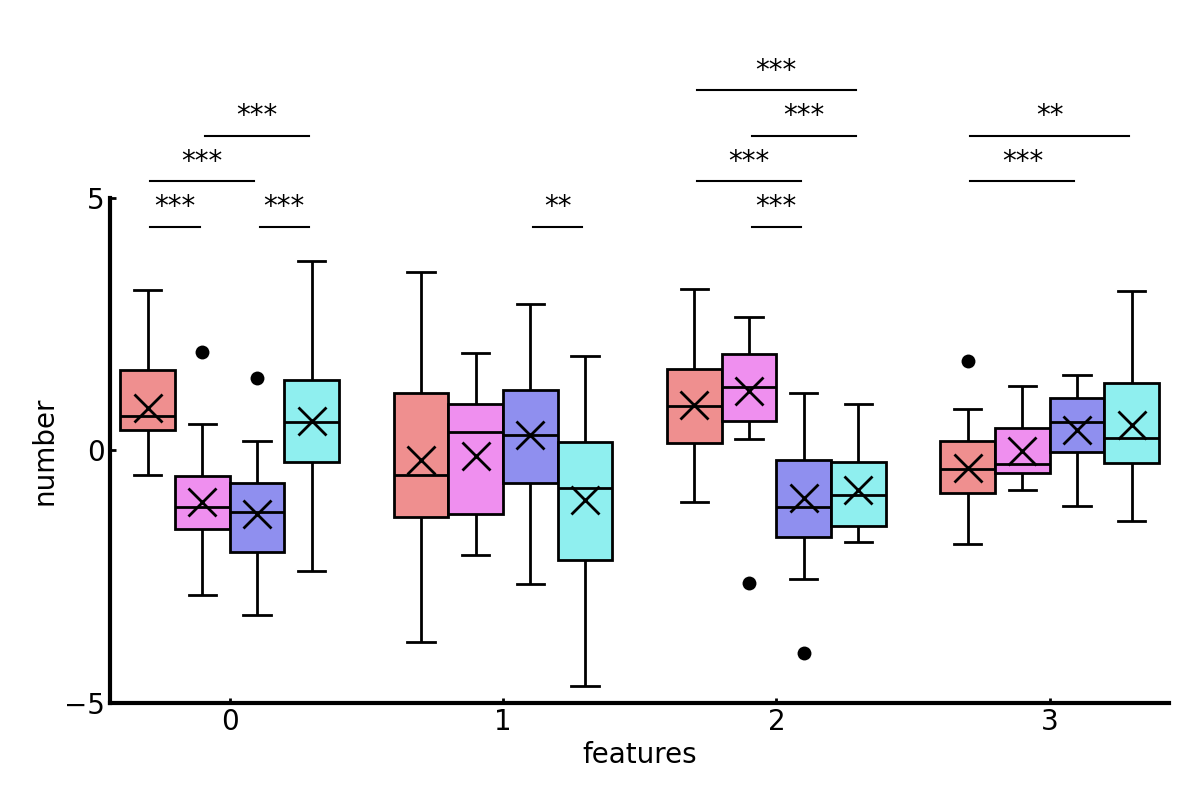
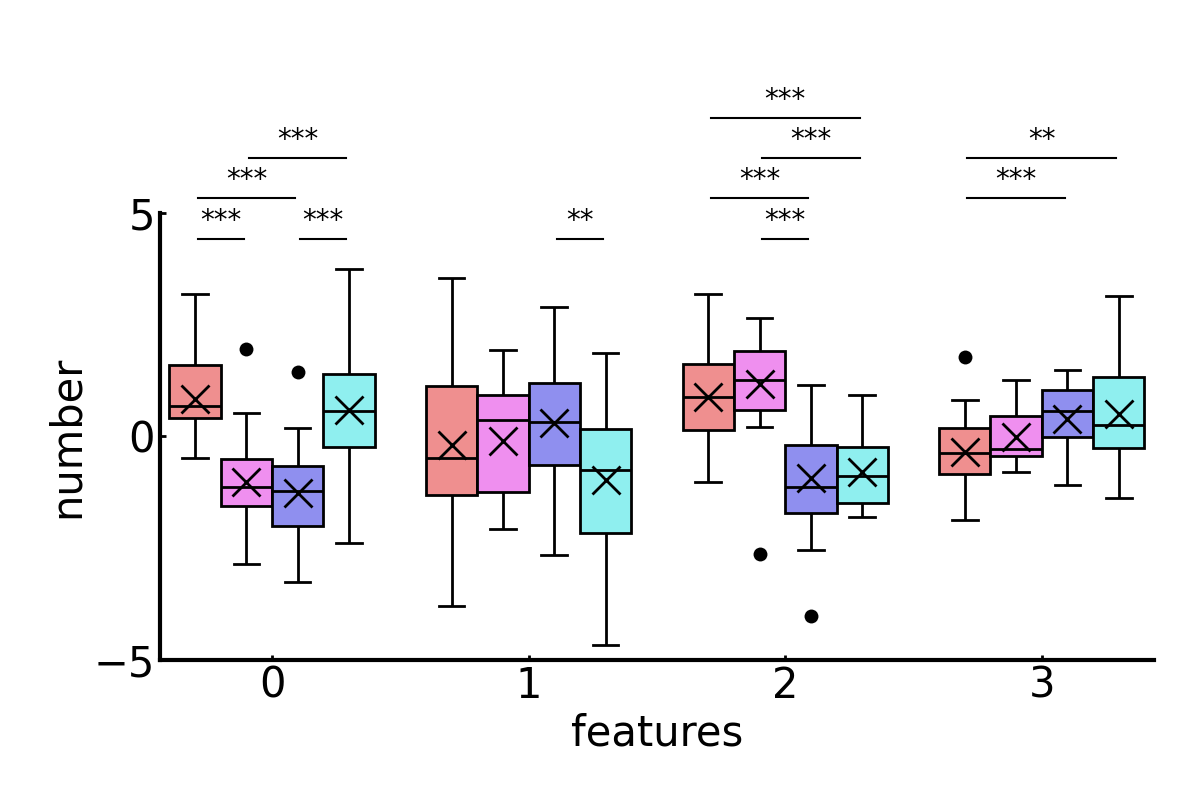
set max font size

diff --git a/plot.py b/plot.py
@@ -260,7 +260,7 @@ class PLOT:
             stat = Stat(**stats)
             annot_text = stat.calc(df, x, y, hue)
 
-            annot = Annot(df, y=y, fs=self.font_size)
+            annot = Annot(df, y=y, fs=min(self.font_size,20))
             ax = annot.plot(ax, annot_text)
 
         plt.tight_layout(pad=1.1)
@@ -343,7 +343,7 @@ class PLOT:
             stat = Stat(**stats)
             annot_text = stat.calc(df, x, y, hue)
 
-            annot = Annot(df, y=y, fs=self.font_size)
+            annot = Annot(df, y=y, fs=min(self.font_size,20))
             ax = annot.plot(ax, annot_text)
 
         plt.tight_layout(pad=1.1)

diff --git a/test.py b/test.py
@@ -8,7 +8,7 @@ if __name__ == "__main__":
     df = pd.DataFrame(X)
     df["target"] = y
 
-    plot = PLOT(save_mode=["png"], figsize=(12,8))
+    plot = PLOT(save_mode=["png"], figsize=(12,8), font_size=30)
 
     df = plot.convert(df, hue="target", x="features", y="number")
     color = plot.get_color("pastel")

diff --git a/README.md b/README.md
@@ -4,7 +4,7 @@ A suite of tools that make it easy to create diagrams at a level that can be put
   
 こんな感じの図を次のプログラムで表示することができます．  
 ~~~ Python
-plot = PLOT(save_mode=["png"], figsize=(12,8))
+plot = PLOT(save_mode=["png"], figsize=(12,8), font_size=30)
 df = plot.convert(df, hue="target", x="features", y="number")
 color = plot.get_color("pastel")
 plot.box(df, "pic/adjust", x="features", y="number", hue="target", yticks=[-5,0,5], color=color)
